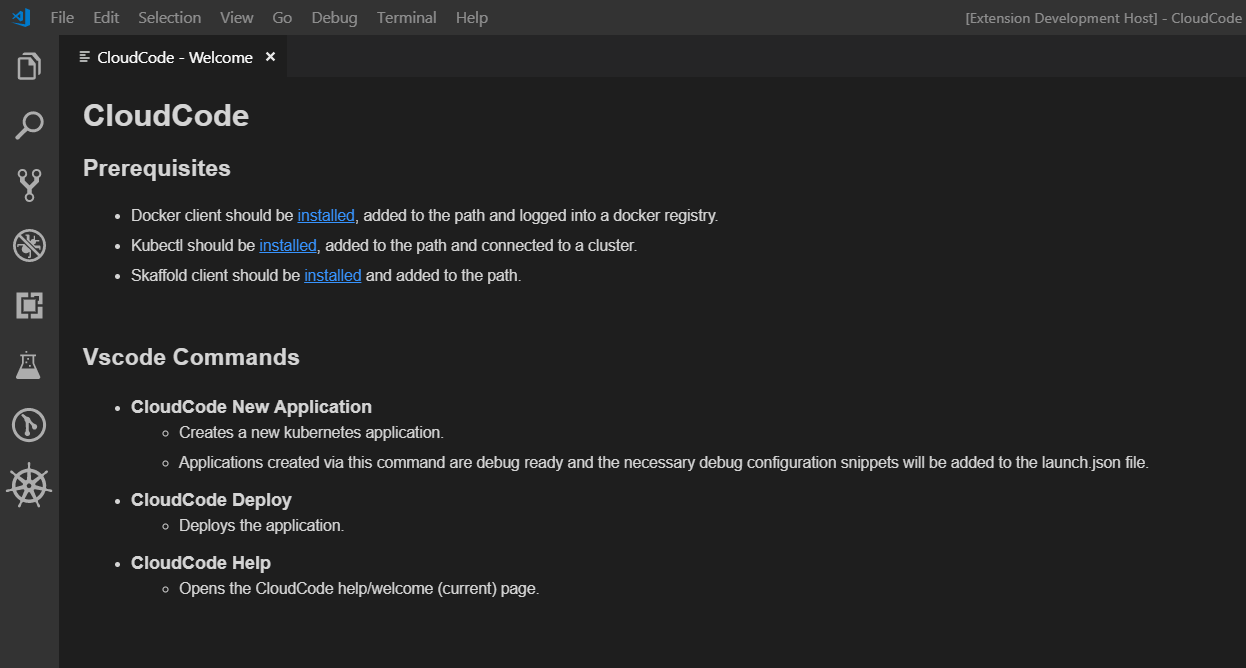
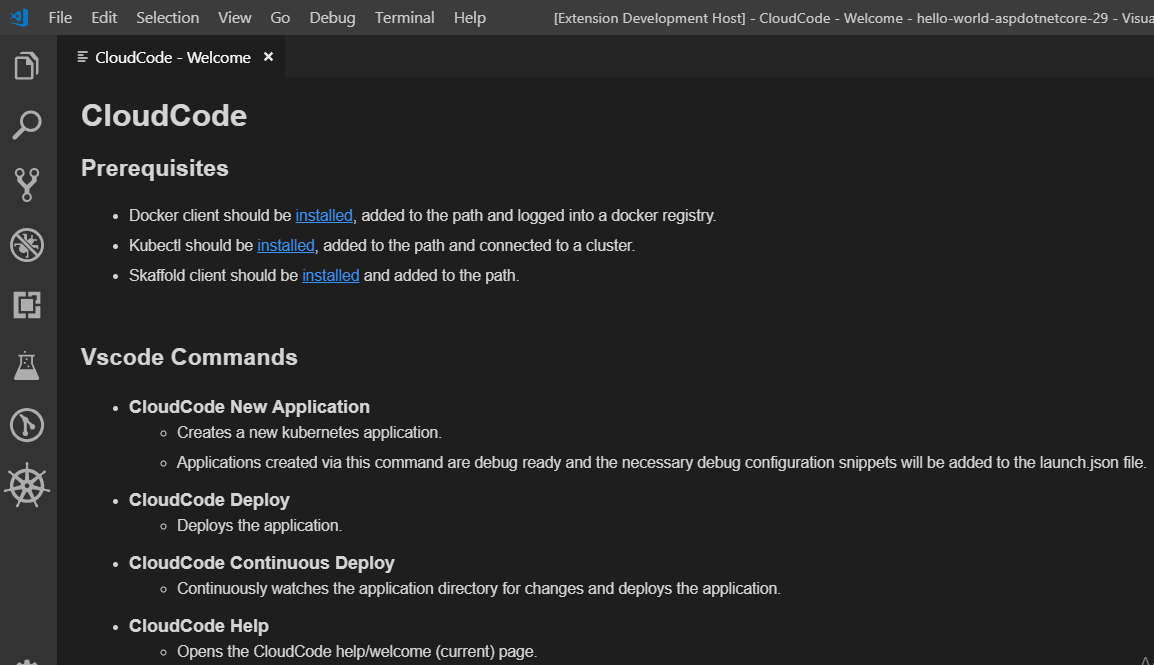
Added documentation for Continuous Deploy command

diff --git a/2_featureTour.md b/2_featureTour.md
@@ -42,29 +42,23 @@ For more details on what we create and additional options review the [New Applic
 > **NOTE:** we will add this to the currently opened workspace - however we suggest you close VS Code and re-open VS code in the new location - ignore the warning about saving the workspace.
 
 
-## Deploy for the First Time
+## Deploy an Application
 
-Under the covers we leverage `Skaffold` - this means that as you edit we automatically re-build and re-package your code and deploy it to a cluster.
-
-The first step is to execute the `Cloud Code: Deploy` command - this will build your containers, push them to the registry, apply cluster configs and then return you the IP address you can use to browse.
+The `Cloud Code: Deploy` command will build your containers, push them to the registry, apply cluster configs and then return you the IP address you can use to browse.
 
 ![Deploy](images/packageAndDeploy.gif)
 
 
-## Edit Inner Loop
+## Edit Inner Loop - Continuous Deployment
 
-We can have a tight development inner loop via `skaffold dev`.  What this does is watch the file system for changes to your files (K8s config or Code) and rebuilds the container and re-deploys to the cluster.
+We can have a tight development inner loop via `Cloud Code: Continuous Deploy` command.  This command continuously watches the file system for changes to your files (K8s config or Code), rebuilds the container(s) and re-deploys to the cluster, so your edits will be reflected in near real time.
 
-To do this open the VS Code terminal and type `skaffold dev`.  This will start the watcher and from there edits will be reflected in near real time.
-
-Skaffold only builds and deploys the parts you need it to.
+This command uses Skaffold underneath and it only builds and deploys the parts you need it to.
 
 ![Deploy](images/skaffoldDev.gif)
 
 
 > **TIP:** You may want to disable AutoSave in VS Code if you use this option.
-
-> **TIP:** To exit `skaffold dev` press `ctrl+c`.
 
 
 ## Debugging

diff --git a/11_commandReference.md b/11_commandReference.md
@@ -6,6 +6,7 @@
 | Report Kubernetes' Extension Issue on Github                         | opens a pre-populates issue on Github                |
 | New Application                                                      | Create a new application from a template             |
 | Deploy                                                               | Deploy the current application to the active cluster |
+| Continuous Deploy                                                           | Watches the application directory continuously for changes and deploys the application to the active cluster |
 | Set as Current Context                                               | Set the context for the active cluster               |
 | Remove from Context                                                  | Sets the given cluster as the current active cluster |
 | Set as Active Namespace                                              | Sets the given namespace as the current active namespace. |

diff --git a/8_newApplication.md b/8_newApplication.md
@@ -6,6 +6,7 @@ Cloud Code for Visual Studio Code makes it easy to create a basic 2 microservice
 - Go
 - Python
 - Java
+- .Net Core
 
 these templates are a simple 2 microservice K8's application that you can rapidly test of feature set through e.g. debugging, deployment, editing support, ...
 
